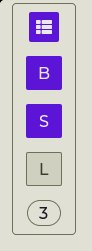
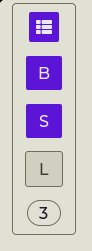
fix(theme): make the disabled boundary an outline, not a border
WHY: the boundary landed as a `border`, and a border is LAYOUT-BEARING in LVGL.
`lv_obj_get_style_space_left` returns `padding + border_width` whenever that side
carries a border, and `lv_obj_get_content_width` subtracts that space — so the
border SHRANK the content box of every disabled button by its width per side.
Labels inside clipped; content-sized buttons grew and overflowed their parents.

MEASURED AT A CONSUMER, which is the only place it was visible: 244 `:clipped`
plus 244 `:overflow` findings, exactly paired, across 20 shipped screens. That
consumer's mint REFUSED to write goldens over them, which is the behaviour that
surfaced this at all.

WHY THIS REPO'S OWN BATTERY SAW NOTHING, and it is not a gap to be patched with
another lane here: the devcards are ISOLATED WIDGET CARDS with slack around the
widget, so a 1px growth fits and no golden moves. A composed screen with a tight
layout has no slack. All 30 lanes were green, a VLM review returned clean, and a
reviewer even measured "footprint unchanged" — true, and about the CARD CROP
rather than the widget's content box. The consumer pin bump is the proof this
repo's charter demands for exactly this reason, and it was run AFTER the push
rather than before. That ordering is the root cause of the regression reaching
master, not the design.

WHAT: `disabled_edge` now sets `outline_color` / `outline_width` / `outline_opa`
/ `outline_pad 0` instead of `border_color` / `border_width`. `outline_width`
[…]

Changed region(s): [[0.2609, 0.5857, 0.6957, 0.753]]

diff --git a/renderer/src/theme.c b/renderer/src/theme.c
@@ -86,12 +86,11 @@ typedef struct {
                              * widget: button, the field controls, the
                              * tabview root (asgard-only)                 */
   lv_style_t disabled_edge;  /* DISABLED BOUNDARY for a widget whose only
-                             * visual edge is its FILL — the button. Rides
-                             * BESIDE disabled_fill, never inside it: the
-                             * five other disabled_fill consumers already
-                             * carry control_rad's edge-0 border at state 0
-                             * and adding one there would override it
-                             * (asgard-only)                              */
+                             * visual edge is its FILL — the button. An
+                             * OUTLINE, never a border: a border is
+                             * layout-bearing and clipped every label it
+                             * enclosed. Rides BESIDE disabled_fill, never
+                             * inside it (asgard-only)                    */
   lv_style_t disabled_flat;  /* DISABLED for the table's line-art grid:
                              * opa fade, NO recolor — a fixed recolor
                              * target LIGHTENS dark cells. Same
@@ -789,12 +788,29 @@ static void style_init(asgard_theme_t *t) {
    * `track_tone` is the precedent for the SHAPE: an asgard-only style added
    * beside a stock default because the stock answer measured under the floor.
    * Do NOT reach for the 6:1 TEXT floor here; the quality contract names
-   * mixing the two as the error its precedence rule exists to prevent. */
+   * mixing the two as the error its precedence rule exists to prevent.
+   *
+   * AN OUTLINE, NOT A BORDER, AND THAT IS THE LOAD-BEARING PART. A first
+   * version used `border_width` and REGRESSED 20 shipped consumer screens.
+   * `lv_obj_get_style_space_left` returns `padding + border_width` whenever
+   * that side carries a border, and `lv_obj_get_content_width` subtracts that
+   * space — so a border SHRINKS the content box. Every label inside a disabled
+   * button lost the border width per side and CLIPPED, while content-sized
+   * buttons grew and OVERFLOWED their containers: 244 clipped plus 244
+   * overflow findings, exactly paired. `outline_width` appears only in the
+   * DRAW path (lv_obj_draw.c) and in no layout or space computation, so it
+   * paints the same boundary and moves nothing.
+   *
+   * The isolated widget cards in this repo could not show it — they carry
+   * slack around the button — which is why a consumer pin bump is the proof
+   * this repo's charter demands, and not this battery alone. */
   style_reset(&s->disabled_edge, inited);
   if (!v) {
-    lv_style_set_border_color(&s->disabled_edge,
-                              mode_hex(t, THEME_EDGE0_DARK, THEME_EDGE0_LIGHT));
-    lv_style_set_border_width(&s->disabled_edge, THEME_BORDER_W);
+    lv_style_set_outline_color(
+        &s->disabled_edge, mode_hex(t, THEME_EDGE0_DARK, THEME_EDGE0_LIGHT));
+    lv_style_set_outline_width(&s->disabled_edge, THEME_BORDER_W);
+    lv_style_set_outline_opa(&s->disabled_edge, LV_OPA_COVER);
+    lv_style_set_outline_pad(&s->disabled_edge, 0);
   }
   style_reset(&s->disabled_flat, inited);
   if (!v) {
@@ -1053,9 +1069,9 @@ static void theme_apply(lv_theme_t *th, lv_obj_t *obj) {
      *
      * `disabled_edge` RIDES BESIDE IT, and only here. The pair swap fixes the
      * INK against the FILL; it leaves the fill itself at ~1.13:1 against the
-     * card, and a button has no border to carry the boundary because it never
-     * takes `control_rad`. See the disabled_edge init comment for why the
-     * border is a separate style rather than a line in disabled_fill. */
+     * card, and a button has no edge to carry the boundary because it never
+     * takes `control_rad`. See the disabled_edge init comment for why it is a
+     * separate style, and why it is an OUTLINE rather than a border. */
     if (t->family == ASGARD_THEME_FAMILY_ASGARD) {
       lv_obj_add_style(obj, &t->styles.disabled_fill, LV_STATE_DISABLED);
       lv_obj_add_style(obj, &t->styles.disabled_edge, LV_STATE_DISABLED);
